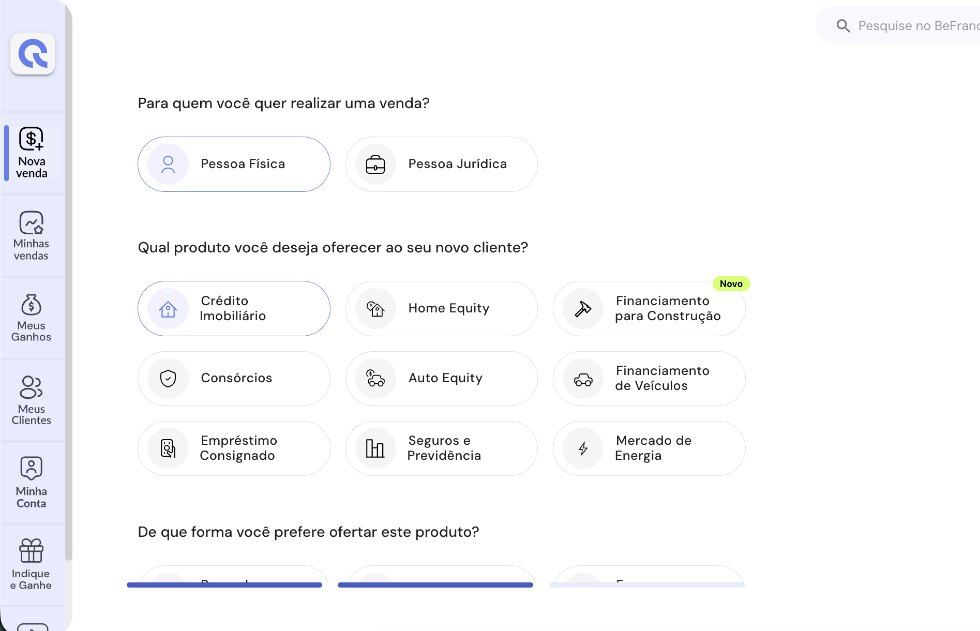
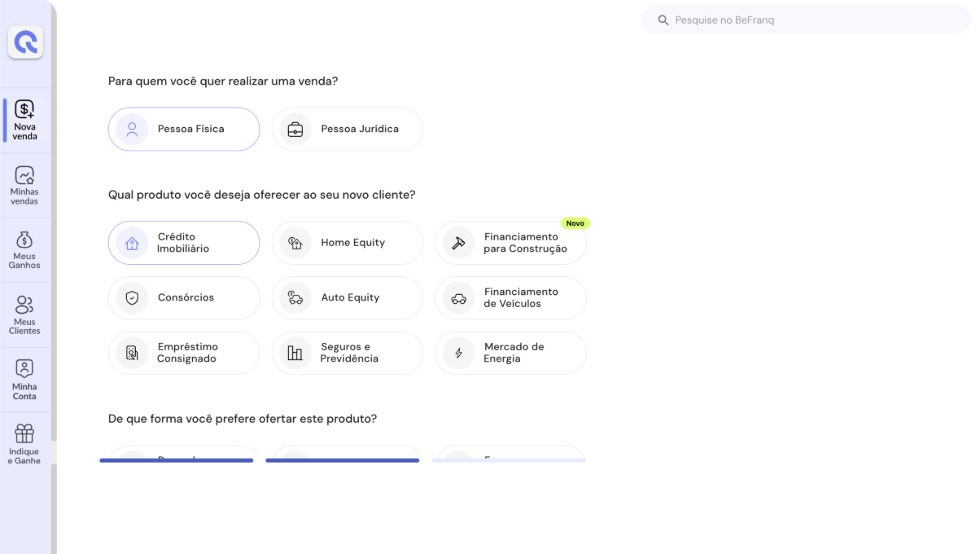
Corrige o recorte da captura: a barra de busca ficava cortada
O quadro da tela é 1,770:1 e a captura 2,35:1. O recorte anterior parava
em x=1895 e decepava a barra de busca, que vai de x=1577 a 2387 — medido
nos pixels, não estimado.

Novo corte em x=2409 (no vão entre a busca e os ícones) e y=1140 (faixa
vazia entre os cartões e as barras azuis). Como isso ainda deixa a imagem
mais larga que o quadro, a tela do app foi estendida 221px para baixo:
branco no corpo e a barra lateral continuada, nas cores amostradas da
própria captura. Nada de conteúdo inventado.

Resultado: 1,769:1 contra 1,770:1 do quadro. 0% descartado na largura em
desktop, mobile e nos dois temas. Arquivo caiu de 55 para 38 KB.

diff --git a/index.html b/index.html
@@ -117,7 +117,7 @@
                      necessária. Enquadrada pelo topo à esquerda, que é onde
                      ficam o menu e as perguntas. -->
                 <img class="fq-mac__shot" src="assets/img/befranq-nova-venda.jpg"
-                     width="980" height="631" loading="eager" decoding="async" alt="">
+                     width="980" height="554" loading="eager" decoding="async" alt="">
               </div>
               <span class="fq-mac__vidro"></span>
             </div>
